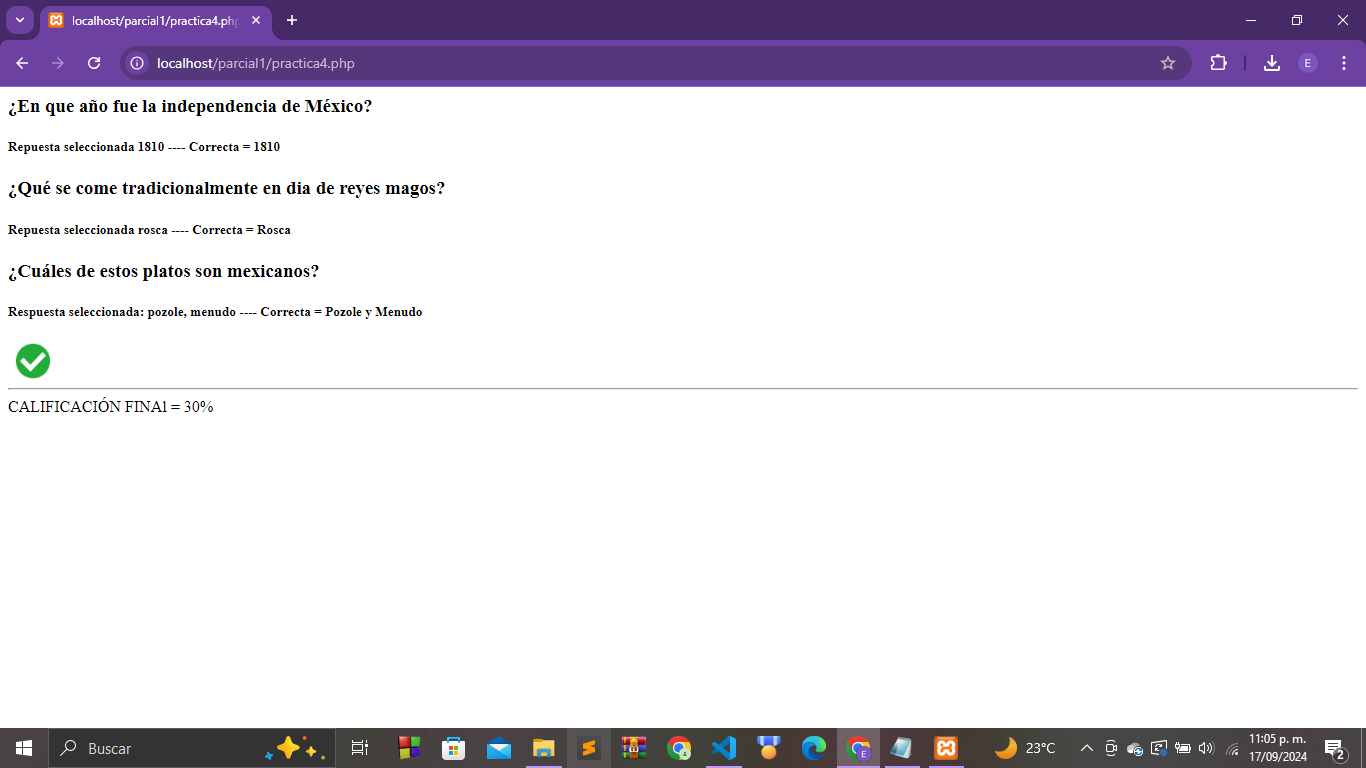
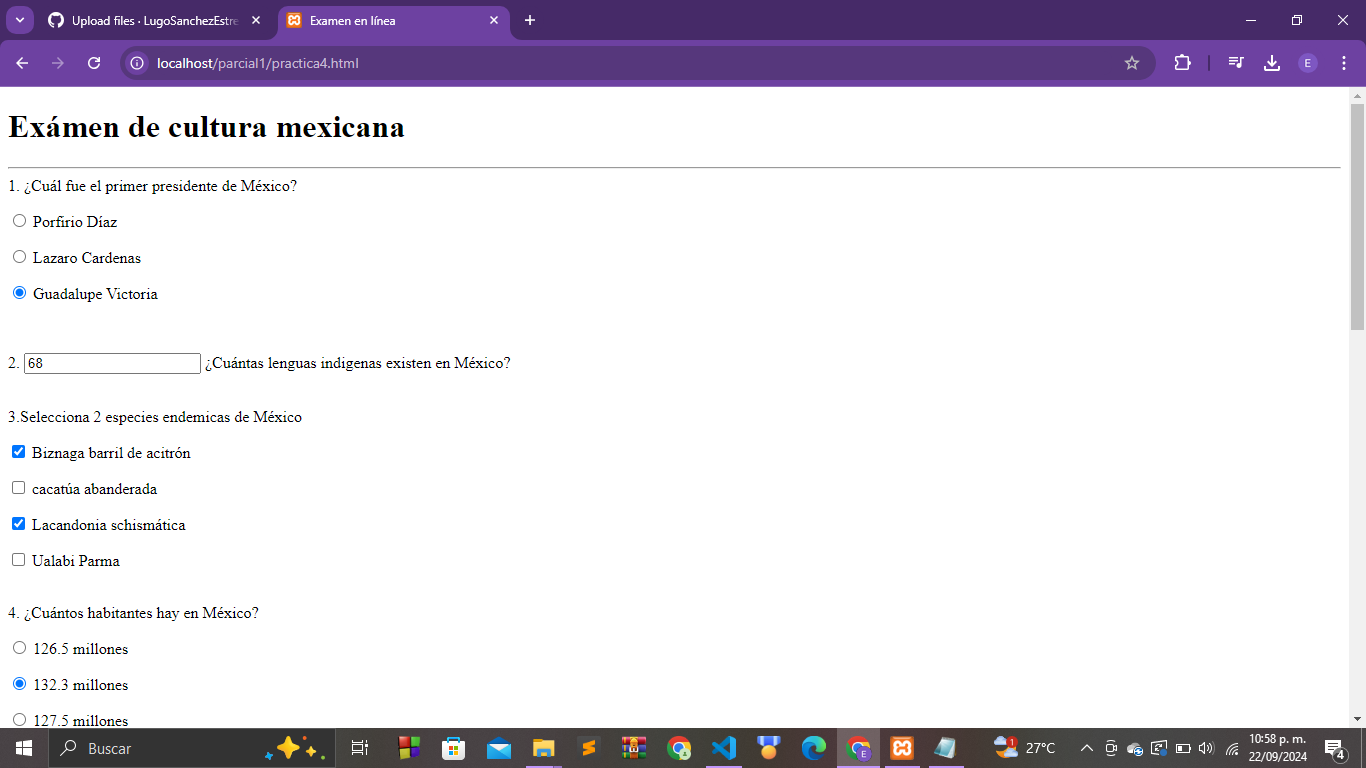
practica #4 22/09/24

diff --git a/BaseDedatosWeb/parcial1/practica4.html b/BaseDedatosWeb/parcial1/practica4.html
@@ -13,29 +13,117 @@
                 <h1>Exámen de cultura mexicana</h1><hr>
                     <div class="card mb-4">
                         <div class="card-header">
-                        1. ¿En que año fue la independencia de México?
+                        1. ¿Cuál fue el primer presidente de México?
                         </div>
                         <div class="card-body">
-                            <p><input type="radio" name="pregunta1" value="1810" required> 1810 </p>
-                            <p><input type="radio" name="pregunta1" value="1910" required> 1910 </p>
-                            <p><input type="radio" name="pregunta1" value="1815" required> 1815 </p>
+                            <p><input type="radio" name="pregunta1" value="porfirio" required> Porfirio Díaz </p>
+                            <p><input type="radio" name="pregunta1" value="lazaro" required> Lazaro Cardenas </p>
+                            <p><input type="radio" name="pregunta1" value="guadalupe" required checked> Guadalupe Victoria</p>
                         </div>
-                    </div>
+                    </div><br>
                     <div class="card p-4 mb-4">
                         <p>
-                            2. <input type="text" name="pregunta2" required> ¿Qué se come tradicionalmente en día de reyes?
+                            2. <input type="text" name="pregunta2" value="Java" required> ¿Cuántas lenguas indigenas existen en México?
                         </p>
-                    </div>
+                    </div><br>
                     <div class="card mb-4">
                         <div class="card-header">
-                        3. ¿Cuáles de estos platos son mexicanos? (Selecciona 2)
+                        3.Selecciona 2 especies endemicas de México
                         </div>
                         <div class="card-body">
-                            <p><input type="checkbox" name="pregunta3[]" value="pozole" > Pozole </p>
-                            <p><input type="checkbox" name="pregunta3[]" value="menudo" > Menudo </p>
-                            <p><input type="checkbox" name="pregunta3[]" value="hamburguesa" > Hamburguesa </p>
+                            <p><input type="checkbox" name="pregunta3[]" value="biznaga" checked> Biznaga barril de acitrón </p>
+                            <p><input type="checkbox" name="pregunta3[]" value="cacatua" checked> cacatúa abanderada </p>
+                            <p><input type="checkbox" name="pregunta3[]" value="lacandonia" > Lacandonia schismática </p>
+                            <p><input type="checkbox" name="pregunta3[]" value="ualabi" > Ualabi Parma</p>
+
                         </div>
+                    </div><br>
+                    <div class="card mb-4">
+                        <div class="card-header">
+                        4. ¿Cuántos habitantes hay en México?
+                        </div>
+                        <div class="card-body">
+                            <p><input type="radio" name="pregunta4" value="126" required> 126.5 millones </p>
+                            <p><input type="radio" name="pregunta4" value="132" required> 132.3 millones </p>
+                            <p><input type="radio" name="pregunta4" value="127" required checked> 127.5 millones </p>
+                        </div>
+                    </div><br>
+                    <div class="card mb-4"></div>
+                        <div class="card-header">
+                        5. ¿Cuál es el nombre oficial de México?
+                        </div>
+                        <div class="card-body">
+                            <p><input type="radio" name="pregunta5" value="estados" required> Estados Unidos Mexicanos </p>
+                            <p><input type="radio" name="pregunta5" value="mexico" required> Mexico </p>
+                            <p><input type="radio" name="pregunta5" value="mexicounido" required checked> Mexico Unido </p>
+                        </div>
+                    </div><br>
+
+                    <div class="card mb-4">
+                        <div class="card-header">
+                        6.¿Cuáles de estos paises colindan con la frontera de México?
+                        </div>
+                        <div class="card-body">
+                            <p><input type="checkbox" name="pregunta6[]" value="guatemala" checked> Guatemala </p>
+                            <p><input type="checkbox" name="pregunta6[]" value="nicaragua" checked> Nicaragua </p>
+                            <p><input type="checkbox" name="pregunta6[]" value="belice" > Belice </p>
+                            <p><input type="checkbox" name="pregunta6[]" value="chile" > Chile </p>
+
+                        </div>
+                    </div><br>
+                      
+                    <div class="card mb-4">
+                        <div class="card-header">
+                        7. ¿Qué significa la palabra México?
+                        </div>
+                        <div class="card-body">
+                            <p><input type="radio" name="pregunta7" value="conejo" required> En el ojo de la luna </p>
+                            <p><input type="radio" name="pregunta7" value="conejo" required> En el conejo de la luna </p>
+                            <p><input type="radio" name="pregunta7" value="ombligo" required checked> En el ombligo de la luna</p>
+                        </div>
+                    </div><br>
+                       
+                    
+
+                    <div class="card mb-4"></div>
+                    <div class="card-header">
+                    8. ¿Cuál es el estado más grande de México?
                     </div>
+                    <div class="card-body">
+                        <p><input type="radio" name="pregunta8" value="cohauila" required> Cohauila </p>
+                        <p><input type="radio" name="pregunta8" value="chihuahua" required> Chihuahua</p>
+                        <p><input type="radio" name="pregunta8" value="sonora" required checked> Sonora </p>
+                    </div>
+                </div><br>
+                 
+                <div class="card mb-4"></div>
+                    <div class="card-header">
+                    9. ¿Cuál es el estado más pequeño de México?
+                    </div>
+                    <div class="card-body">
+                        <p><input type="radio" name="pregunta9" value="aguascalientes" required> Aguascalientes</p>
+                        <p><input type="radio" name="pregunta9" value="tlaxcala" required> Tlaxcala</p>
+                        <p><input type="radio" name="pregunta9" value="oaxaca" required checked> Oaxaca </p>
+                    </div>
+                </div><br>
+
+                <div class="card mb-4"></div>
+                    <div class="card-header">
+                    10. ¿Cuál es el estado más seguro de México?
+                    </div>
+                    <div class="card-body">
+                        <p><input type="radio" name="pregunta10" value="aguascalientes" required> Aguascalientes</p>
+                        <p><input type="radio" name="pregunta10" value="tlaxcala" required> Tamaulipas</p>
+                        <p><input type="radio" name="pregunta10" value="oaxaca" required checked> Sinaloa </p>
+                    </div>
+                </div><br>
+
+
+
+
+                    
+
+
             </div>
             <br><input type="submit" class="btn btn-primary" value="Terminar examen">
         </form>

diff --git a/BaseDedatosWeb/parcial1/practica4.php b/BaseDedatosWeb/parcial1/practica4.php
@@ -4,44 +4,154 @@
     $pregunta1 = $_POST["pregunta1"];
     $pregunta2 = $_POST["pregunta2"];
     $pregunta3 = $_POST["pregunta3"];
+    $pregunta4 = $_POST["pregunta4"];
+    $pregunta5 = $_POST["pregunta5"];
+    $pregunta6 = $_POST["pregunta6"];
+    $pregunta7 = $_POST["pregunta7"];
+    $pregunta7 = $_POST["pregunta7"];
+    $pregunta8 = $_POST["pregunta8"];
+    $pregunta9 = $_POST["pregunta9"];
+    $pregunta10 = $_POST["pregunta10"];
 
-    //valida pregunta 1 1. ¿En que año fue la independencia de México?
-    echo "<h3> ¿En que año fue la independencia de México? </h3>";
-    echo "<h5>Repuesta seleccionada ".$pregunta1." ---- Correcta = 1810</h5>";
-    if($pregunta1 == "1810"){
-        $aciertos++;
-      
+    
+    
 
-    //Valido pregunta 2 ¿Qué se come tradicionalmente en dia de reyes magos?
-    echo "<h3> ¿Qué se come tradicionalmente en dia de reyes magos? </h3>";
-    echo "<h5>Repuesta seleccionada ".$pregunta2." ---- Correcta = Rosca</h5>";
-    if(strtoupper($pregunta2) == "ROSCA"){
+
+    //valida pregunta 1 1. ¿Lenguaje de programación que se utiliza para WEB?
+    echo "<h3>1. ¿Cuál fue el primer presidente de México? </h3>";
+    echo "<h5>Repuesta seleccionada ".$pregunta1." ---- Correcta = Guadalupe Victoria</h5>";
+    if($pregunta1 == "guadalupe"){
         $aciertos++;
+        echo "<img src='correcta.jpg' width='50px'><hr>";
+    } else {
+        echo "<img src='incorrecta.png' width='50px'><hr>";
     }
+    //------FIN de la pregunta 1 ------------------
 
-    //Pregunta 3 ¿Cuáles de estos platos son mexicanos?
-    echo "<h3>¿Cuáles de estos platos son mexicanos? </h3>";
-    echo "<h5>Respuesta seleccionada: " . implode(", ", $pregunta3) . " ---- Correcta = Pozole y Menudo</h5>";
+    //Valido pregunta 2 s una plataforma informática de lenguaje de programación creada por Sun Microsystems en 1995.
+    echo "<h3>2.Actualmente existen ______ lenguas indigenas en México.</h3>";
+    echo "<h5>Repuesta seleccionada ".$pregunta2." ---- Correcta = 68</h5>";
+    if(strtoupper($pregunta2) == "68"){
+        $aciertos++;
+        echo "<img src='correcta.jpg' width='50px'><hr>";
+    } else {
+        echo "<img src='incorrecta.png' width='50px'><hr>";
+    }
+    //Fin de la pregunta 2 -----------------------------
 
-   
+    //Pregunta 3 - se deben validar 2 opciones sql y mongo
+    echo "<h3>3.Selecciona 2 especies endemicas de México</h3>";
+    echo "<h5>Repuesta seleccionada ".implode(",", $pregunta3)." ---- Correcta = Lacandonia schismática, Biznaga barril de acitrón</h5>";
     $p3_respuestas_correctas = 0;
 
     if(count($pregunta3) == 2){
         for($i=0; $i<count($pregunta3); $i++){
-            if($pregunta3[$i] == "pozole" || $pregunta3[$i] == "menudo"){
+            if($pregunta3[$i] == "lacandonia" || $pregunta3[$i] == "biznaga"){
                 $p3_respuestas_correctas ++;
             }
         }
         if($p3_respuestas_correctas == 2){
             $aciertos++;
+            echo "<img src='correcta.jpg' width='50px'><hr>";
+        } else {
+            echo "<img src='incorrecta.png' width='50px'><hr>";
         }
-      }
-
-      
-      echo "<img src='correcta.jpg' width='50px'><hr>";
     } else {
-        echo "<img src='incorrecta.jpg' width='50px'><hr>";
+        echo "<img src='incorrecta.png' width='50px'><hr>";
     }
+    //----------FIN pregunta 3 ------------------------------------
+
+    //valida pregunta 4. ¿Es la forma correcta de nombrar una variable en PHP?
+
+        echo "<h3>4. ¿Cuántos habitantes hay en México?</h3>";
+        echo "<h5>Repuesta seleccionada ".$pregunta4." ---- Correcta = 132.3 millones</h5>";
+        if($pregunta4 == "132"){
+            $aciertos++;
+            echo "<img src='correcta.jpg' width='50px'><hr>";
+        } else {
+            echo "<img src='incorrecta.png' width='50px'><hr>";
+        }
+    //------FIN de la pregunta 4 ------------------
+
+    //Valido pregunta 5 es una función de php que sirve para contar los elementos de un array.
+    echo "<h3>5. ¿Cuál es el nombre oficial de México? </h3>";
+    echo "<h5>Repuesta seleccionada ".$pregunta5." ---- Correcta = Estados Unidos Mexicanos</h5>";
+    if($pregunta5 == "estados"){
+        $aciertos++;
+        echo "<img src='correcta.jpg' width='50px'><hr>";
+    } else {
+        echo "<img src='incorrecta.png' width='50px'><hr>";
+    }
+        
+    //Valido pregunta 6 es una función de php que sirve para contar los elementos de un array.
+    echo "<h3>3.¿Cuáles de estos paises colindan con la frontera de México?</h3>";
+    echo "<h5>Repuesta seleccionada ".implode(",", $pregunta6)." ---- Correcta = Guatemala, Belice</h5>";
+    $p3_respuestas_correctas = 0;
+
+    if(count($pregunta6) == 2){
+        for($i=0; $i<count($pregunta6); $i++){
+            if($pregunta6[$i] == "guatemala" || $pregunta6[$i] == "belice"){
+                $p3_respuestas_correctas ++;
+            }
+        }
+        if($p3_respuestas_correctas == 2){
+            $aciertos++;
+            echo "<img src='correcta.jpg' width='50px'><hr>";
+        } else {
+            echo "<img src='incorrecta.png' width='50px'><hr>";
+        }
+    } else {
+        echo "<img src='incorrecta.png' width='50px'><hr>";
+    }
+
+      //Valido pregunta 6 es una función de php que sirve para contar los elementos de un array.
+    echo "<h3>7. ¿Qué significa la palabra México? </h3>";
+    echo "<h5>Repuesta seleccionada ".$pregunta7." ---- Correcta = En el ombligo de la luna</h5>";
+    if($pregunta7 == "ombligo"){
+        $aciertos++;
+        echo "<img src='correcta.jpg' width='50px'><hr>";
+    } else {
+        echo "<img src='incorrecta.png' width='50px'><hr>";
+    }
+
+
+    //Valido pregunta 8 es una función de php que sirve para contar los elementos de un array.
+    echo "<h3>8. ¿Cuál es el estado más grande de México? </h3>";
+    echo "<h5>Repuesta seleccionada ".$pregunta8." ---- Correcta = Chihuahua</h5>";
+    if($pregunta8 == "chihuahua"){
+        $aciertos++;
+        echo "<img src='correcta.jpg' width='50px'><hr>";
+    } else {
+        echo "<img src='incorrecta.png' width='50px'><hr>";
+    }
+
+    
+    //Valido pregunta 9 es una función de php que sirve para contar los elementos de un array.
+    echo "<h3>9. ¿Cuál es el estado más pequeño de México? </h3>";
+    echo "<h5>Repuesta seleccionada ".$pregunta9." ---- Correcta = Tlaxcala</h5>";
+    if($pregunta9 == "tlaxcala"){
+        $aciertos++;
+        echo "<img src='correcta.jpg' width='50px'><hr>";
+    } else {
+        echo "<img src='incorrecta.png' width='50px'><hr>";
+    }
+        
+
+
+
+
+    //Valido pregunta 10 es una función de php que sirve para contar los elementos de un array.
+    echo "<h3>10. ¿Cuál es el estado más seguro de México? </h3>";
+    echo "<h5>Repuesta seleccionada ".$pregunta10." ---- Correcta = Aguascalientes</h5>";
+    if($pregunta10 == "aguascalientes"){
+        $aciertos++;
+        echo "<img src='correcta.jpg' width='50px'><hr>";
+    } else {
+        echo "<img src='incorrecta.png' width='50px'><hr>";
+    }
+        
+
+
     echo "CALIFICACIÓN FINAl = " . ($aciertos * 10) . "%";
 
 ?>
